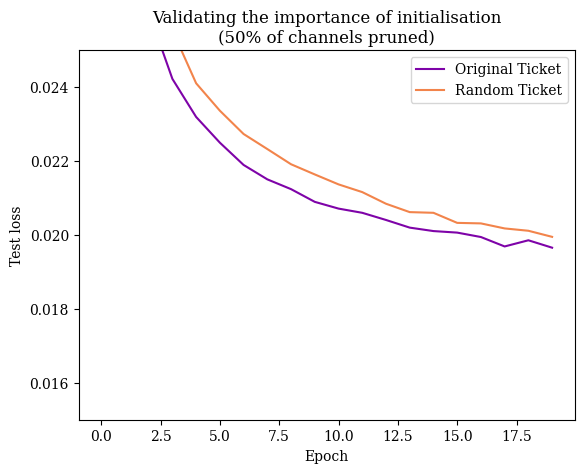
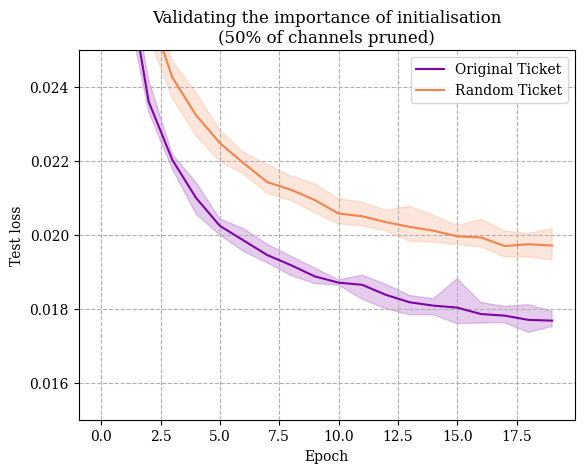
Tweak validation exp to use pruning limit

Changed region(s): [[0.2158, 0.0888, 0.9555, 0.7104]]

diff --git a/experiments/compare_to_random_mask.py b/experiments/compare_to_random_mask.py
@@ -24,13 +24,16 @@ if __name__ == '__main__':
         # unpruned = ConvAE.init_from_checkpoint(run_id, None, None, None).to(device)
 
         ticket = ConvAE.init_from_checkpoint(run_id, ratio, draw_epoch, draw_sub_epoch, param_epoch=None).to(device)
+
+        # ticket_eb = ConvAE.init_from_checkpoint(run_id, ratio, draw_epoch, draw_sub_epoch, param_epoch=draw_epoch).to(device)
+
         # ticket_resume = ConvAE.init_from_checkpoint(run_id, ratio, draw_epoch, draw_sub_epoch, param_epoch=1).to(device)
 
         # ticket_reset = ConvAE.init_from_checkpoint(run_id, ratio, draw_epoch, draw_sub_epoch, param_epoch=1).to(device)
         # ticket_reset.reset_weights()
 
         # get ticket mask and extract ratio per layer
-        ticket_masks = torch.load(mask_file)
+        ticket_masks = ConvAE.init_from_checkpoint(run_id, None, None, None, param_epoch=draw_epoch).get_mask_of_current_network_state(ratio)
         random_masks = []
         for t in ticket_masks:
             nonzero = torch.count_nonzero(t)
@@ -38,23 +41,29 @@ if __name__ == '__main__':
             r_idx = torch.randperm(torch.numel(r))
             r = r[r_idx].to(device)
             random_masks.append(r)
-        # mask_to_png(ticket_masks, caption="Original mask", show=True, save=False)
+        # mask_to_png(torch.load(mask_file), caption="Original mask", show=True, save=False)
+        # mask_to_png(ticket_masks, caption="Expanded mask", show=True, save=False)
         # mask_to_png(random_masks, caption="Random mask with same ratio per layer", show=True, save=False)
 
         random_ticket = ConvAE.init_from_checkpoint(run_id, None, None, None, param_epoch=None)
         prune_model(random_ticket, random_masks)
+
+        # random_ticket_eb = ConvAE.init_from_checkpoint(run_id, None, None, None, param_epoch=draw_epoch)
+        # prune_model(random_ticket_eb, random_masks)
         # random_ticket_resume = ConvAE.init_from_checkpoint(run_id, None, None, None, param_epoch=1)
         # prune_model(random_ticket_resume, random_masks)
 
         networks = [
             ("original_ticket", ticket),
+            # ("original_ticket_eb", ticket_eb),
             # ("original_ticket_resume", ticket_resume),
             # ("reset_ticket", ticket_reset),
             ("random_ticket", random_ticket.to(device)),
+            # ("random_ticket_eb", random_ticket_eb.to(device)),
             # ("random_ticket_resume", random_ticket_resume.to(device)),
             # ("unpruned", unpruned),
         ]
         return networks
 
-    retrain_with_shots(get_networks, f"graphs/graph_data/random_mask-{run_id}-{ratio}.json", shots=5)
+    retrain_with_shots(get_networks, f"graph_data/retraining/random_mask-{run_id}-{ratio}.json", shots=5)
     # retrain_tagged_networks(networks, f"graphs/graph_data/random_mask-{run_id}-{ratio}.json")

diff --git a/procedures/ticket_drawing/without_redist.py b/procedures/ticket_drawing/without_redist.py
@@ -1,22 +1,15 @@
 from typing import Dict
 
 import torch
-import torchsummary
 from torch.nn.modules.batchnorm import _BatchNorm
-
-from evaluation.pruning_vis import mask_to_png
-from models.conv_ae import ConvAE
-from procedures.in_place_pruning import prune_model
-from settings.train_settings import NETWORK, TOPOLOGY
-from utils.file import change_working_dir
-from utils.get_run_id import last_run
+from settings.prune_settings import PRUNE_LIMIT
 
 
 def mask_dist(masks_a, masks_b):
     return [torch.sum(torch.abs(a-b)).item() for a, b in zip(masks_a, masks_b)]
 
 
-def find_channel_mask_no_redist(network, fraction, per_layer_limit=0.01):
+def find_channel_mask_no_redist(network, fraction, per_layer_limit=PRUNE_LIMIT):
     """
     Draw a critical subnetwork from a given trained network using (global) channel pruning.
 
@@ -84,25 +77,25 @@ def find_channel_mask_no_redist(network, fraction, per_layer_limit=0.01):
     return bn_masks
 
 
-if __name__ == '__main__':
-    # test conv
-    # change_working_dir()
-    # net = ConvAE(6, 4, 6)
-    # net.load_state_dict(torch.load("runs/[6, 4, 6]-fe4bc8144/trained-6.pth"))
-    # _masks = list(find_channel_mask_no_redist(net, 0.01).values())
-    # prune_model(net, _masks)
-    # torchsummary.summary(net, (1, 28, 28))
-
-    # test ff
-    net = NETWORK(*TOPOLOGY)
-    print(last_run())
-    net.load_state_dict(torch.load(f"runs/{last_run()}/trained-15.pth"))
-
-    _masks = list(find_channel_mask_no_redist(net, 0.9, 0.01).values())
-    # _masks2 = list(find_channel_mask_no_redist(net, 0.8, 0.01).values())
-    print(sum([torch.count_nonzero(m).item() for m in _masks]) / sum([torch.numel(m) for m in _masks]))
-    # mask_to_png(_masks)
-    # mask_to_png(_masks2)
-    # prune_model(net, _masks2)
-    # torchsummary.summary(net, (16,))
+# if __name__ == '__main__':
+#     # test conv
+#     # change_working_dir()
+#     # net = ConvAE(6, 4, 6)
+#     # net.load_state_dict(torch.load("runs/[6, 4, 6]-fe4bc8144/trained-6.pth"))
+#     # _masks = list(find_channel_mask_no_redist(net, 0.01).values())
+#     # prune_model(net, _masks)
+#     # torchsummary.summary(net, (1, 28, 28))
+#
+#     # test ff
+#     net = NETWORK(*TOPOLOGY)
+#     print(last_run())
+#     net.load_state_dict(torch.load(f"runs/{last_run()}/trained-15.pth"))
+#
+#     _masks = list(find_channel_mask_no_redist(net, 0.9, 0.01).values())
+#     # _masks2 = list(find_channel_mask_no_redist(net, 0.8, 0.01).values())
+#     print(sum([torch.count_nonzero(m).item() for m in _masks]) / sum([torch.numel(m) for m in _masks]))
+#     # mask_to_png(_masks)
+#     # mask_to_png(_masks2)
+#     # prune_model(net, _masks2)
+#     # torchsummary.summary(net, (16,))
 

diff --git a/procedures/ticket_drawing/with_redist.py b/procedures/ticket_drawing/with_redist.py
@@ -6,12 +6,6 @@ from torch.nn.modules.batchnorm import _BatchNorm
 from torch.nn.modules.conv import _ConvNd, _ConvTransposeNd
 from torch.nn import functional
 
-from evaluation.pruning_vis import mask_to_png
-from models.conv_ae import ConvAE
-from procedures.ticket_drawing.without_redist import find_channel_mask_no_redist
-from utils.file import change_working_dir
-from utils.get_run_id import last_run
-
 
 def find_channel_mask_redist(network, fraction, redist_function="weightsim"):
     """
@@ -155,16 +149,16 @@ def find_channel_mask_redist(network, fraction, redist_function="weightsim"):
     return bn_masks
 
 
-if __name__ == '__main__':
-    change_working_dir()
-    _network = ConvAE(6, 4, 6)
-    _network.load_state_dict(torch.load(f"runs/{last_run()}/trained-8.pth"))
-
-    # redist_prop_masks = list(find_channel_mask_redist(_network, 0.5, redist_function="proportional").values())
-    redist_sim_masks = list(find_channel_mask_redist(_network, 0.5, redist_function="weightsim").values())
-    redist_sim_masks2 = list(find_channel_mask_redist(_network, 0.5, redist_function="weightsim-0.001").values())
-    no_redist_masks = list(find_channel_mask_no_redist(_network, 0.5).values())
-    # mask_to_png(redist_prop_masks, "Proportionally redistributed weights")
-    mask_to_png(redist_sim_masks, "Similarity-based redistributed weights")
-    mask_to_png(redist_sim_masks2, "Similarity-based 0.001")
-    mask_to_png(no_redist_masks, "No weight redistribution")
+# if __name__ == '__main__':
+#     change_working_dir()
+#     _network = ConvAE(6, 4, 6)
+#     _network.load_state_dict(torch.load(f"runs/{last_run()}/trained-8.pth"))
+#
+#     # redist_prop_masks = list(find_channel_mask_redist(_network, 0.5, redist_function="proportional").values())
+#     redist_sim_masks = list(find_channel_mask_redist(_network, 0.5, redist_function="weightsim").values())
+#     redist_sim_masks2 = list(find_channel_mask_redist(_network, 0.5, redist_function="weightsim-0.001").values())
+#     no_redist_masks = list(find_channel_mask_no_redist(_network, 0.5).values())
+#     # mask_to_png(redist_prop_masks, "Proportionally redistributed weights")
+#     mask_to_png(redist_sim_masks, "Similarity-based redistributed weights")
+#     mask_to_png(redist_sim_masks2, "Similarity-based 0.001")
+#     mask_to_png(no_redist_masks, "No weight redistribution")

diff --git a/procedures/retrain.py b/procedures/retrain.py
@@ -43,7 +43,7 @@ def retrain_with_shots(get_networks, json_filename, shots=3):
         nets = get_networks()
         for net_tag, net in nets:
             net.to(device)
-            print(f"Retraining: {net_tag}")
+            print(f"Shot {shot+1}/{shots}, retraining: {net_tag}")
             if net_tag not in graph_data:
                 current_graph_data = {}
                 graph_data[net_tag] = current_graph_data
@@ -56,11 +56,11 @@ def retrain_with_shots(get_networks, json_filename, shots=3):
                 train_loss = train(net, optimiser, criterion, train_loader, device)
                 test_loss = test(net, criterion, test_loader, device)
 
-                print(train_loss, test_loss)
+                print(f"{epoch}/{RETRAIN_EPOCHS}: {train_loss}, {test_loss}")
                 if epoch not in current_graph_data:
-                    current_graph_data[epoch] = [0, 0]
-                current_graph_data[epoch][0] += train_loss / shots
-                current_graph_data[epoch][1] += test_loss / shots
+                    current_graph_data[epoch] = [[], []]
+                current_graph_data[epoch][0].append(train_loss)
+                current_graph_data[epoch][1].append(test_loss)
 
                 with open(json_filename, "w") as write_file:
                     write_file.write(json.dumps(graph_data))

diff --git a/models/conv_ae.py b/models/conv_ae.py
@@ -68,6 +68,10 @@ class ConvAE(nn.Module):
         x = self.encoder(x)
         return self.decoder(x)
 
+    def get_mask_of_current_network_state(self, ratio):
+        channel_mask_func = find_channel_mask_redist if PRUNE_WITH_REDIST else find_channel_mask_no_redist
+        return list(channel_mask_func(self, ratio).values())
+
     @staticmethod
     def init_from_checkpoint(run_id, ratio: Union[float, None], epoch, sub_epoch=1, param_epoch=None, from_disk=False):
         topology = get_topology_of_run(run_id)
@@ -80,7 +84,6 @@ class ConvAE(nn.Module):
                 mask_file = f"runs/{run_id}/keep-{ratio}-epoch-{epoch}-{sub_epoch}.pth"
                 masks = torch.load(mask_file)
             else:
-                channel_mask_func = find_channel_mask_redist if PRUNE_WITH_REDIST else find_channel_mask_no_redist
-                masks = list(channel_mask_func(network, ratio).values())
+                masks = network.get_mask_of_current_network_state(ratio)
             prune_model(network, masks)
         return network

diff --git a/settings/prune_settings.py b/settings/prune_settings.py
@@ -1,4 +1,5 @@
 # fractions of the network to keep
 DRAW_PER_EPOCH = 4
 PRUNE_RATIOS = [0.9, 0.7, 0.5, 0.3]
+PRUNE_LIMIT = 0.2
 PRUNE_WITH_REDIST = False
